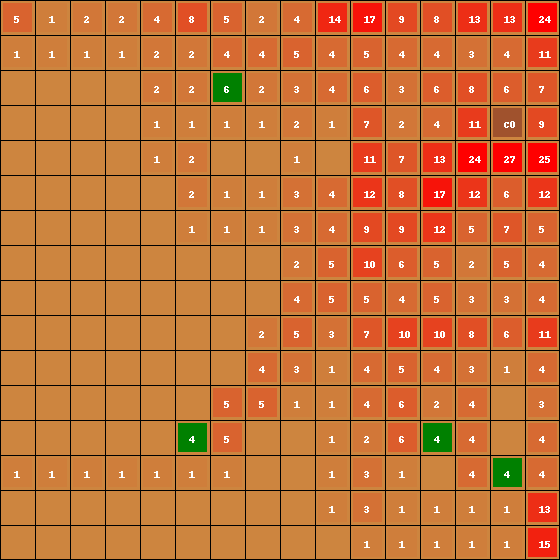
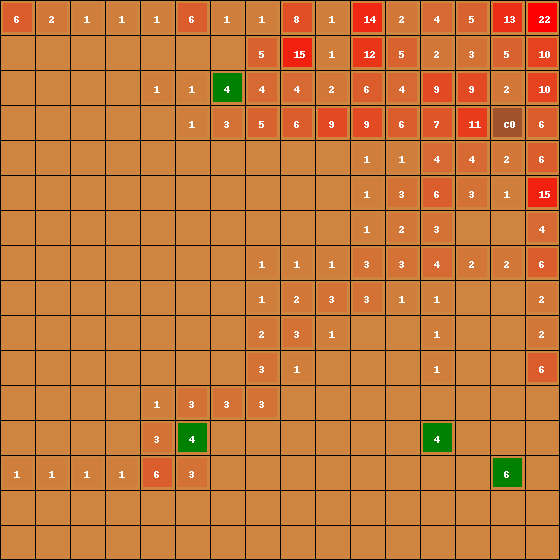
Changes to make line plots

diff --git a/Project/multi_agent_teams.py b/Project/multi_agent_teams.py
@@ -4,7 +4,7 @@ import numpy as np
 from gym import Env
 from typing import Sequence
 
-from aasma.utils import compare_results
+from aasma.utils import compare_results_teams, compare_results_storage
 from aasma.simplified_predator_prey import AntColonyEnv
 
 from aasma import AntAgent
@@ -14,12 +14,16 @@ from single_random_agent import RandomAntAgent
 
 SEED_MULTIPLIER = 1 # CHANGE THIS IF YOU WANT TO TEST A DIFFERENT SET OF MAPS!
 
-def run_multi_agent(environment: Env, n_episodes: int) -> np.ndarray:
-    
-    results = {"Random Team" : np.zeros(n_episodes), 
-               "Deliberative Team": np.zeros(n_episodes), 
-               "Reactive Team": np.zeros(n_episodes), 
-               "Hybrid Team": np.zeros(n_episodes)}
+def run_multi_agent(environment: Env, n_episodes: int, max_steps: int) -> np.ndarray:
+    results_colonies_storage = {"Random Team" : np.zeros(max_steps), 
+                                "Deliberative Team": np.zeros(max_steps), 
+                                "Reactive Team": np.zeros(max_steps), 
+                                "Hybrid Team": np.zeros(max_steps)}
+
+    results_teams = {"Random Team" : np.zeros(n_episodes), 
+                    "Deliberative Team": np.zeros(n_episodes), 
+                    "Reactive Team": np.zeros(n_episodes), 
+                    "Hybrid Team": np.zeros(n_episodes)}
     
     for episode in range(n_episodes):
         
@@ -73,34 +77,49 @@ def run_multi_agent(environment: Env, n_episodes: int) -> np.ndarray:
                 
                 next_observations, rewards, terminals, info = environment.step(actions)
 
+                results_colonies_storage[team][steps - 1] += info['colony_storage']
+
                 #environment.render() # ENABLE/DISABLE THIS TO VIEW ENVIRONMENT
                 #time.sleep(opt.render_sleep_time)
 
                 observations = next_observations
             
             environment.draw_heat_map(episode, team)
-            results[team][episode] = steps
-
             environment.close()
 
-    return results
+            results_teams[team][episode] = steps
+
+    for team in results_colonies_storage.keys():
+         for i in range(max_steps):
+            results_colonies_storage[team][i] /= n_episodes
+
+    results_final = [results_teams, results_colonies_storage]
+
+    return results_final
 
 if __name__ == '__main__':
 
     parser = argparse.ArgumentParser()
 
     parser.add_argument("--episodes", type=int, default=100) # CHANGE THIS (n_episodes)
+    parser.add_argument("--steps", type=int, default=100) # CHANGE THIS (max_steps)
     parser.add_argument("--render-sleep-time", type=float, default=0.1)
     opt = parser.parse_args()
 
     # 1 - Setup the environment
-    environment = AntColonyEnv(grid_shape=(16, 16), n_agents=4, max_steps=200, n_foodpiles=4, n_episodes=opt.episodes)
+    environment = AntColonyEnv(grid_shape=(16, 16), n_agents=4, max_steps=opt.steps, n_foodpiles=4, n_episodes=opt.episodes)
 
     # 3 - Evaluate teams
-    results = run_multi_agent(environment, opt.episodes)
+    results = run_multi_agent(environment, opt.episodes, opt.steps)
 
     # 4 - Compare results
-    compare_results(
+    compare_results_teams(
+        results,
+        title="Teams Comparison on 'Ant Colony' Environment",
+        colors=["orange", "green", "blue", "red"]
+    )
+
+    compare_results_storage(
         results,
         title="Teams Comparison on 'Ant Colony' Environment",
         colors=["orange", "green", "blue", "red"]

diff --git a/Project/aasma/utils.py b/Project/aasma/utils.py
@@ -113,8 +113,26 @@ def plot_confidence_bar(names, means, std_devs, N, title, x_label, y_label, conf
         plt.show()
     plt.close()
 
+def plot_line_graph(results, N, title, x_label, y_label, show=False, filename=None, colors=None, yscale=None):
+    for team, values in results[1].items():
+        plt.plot(N, values, label=team)
 
-def compare_results(results, confidence=0.95, title="Agents Comparison", metric="Steps Per Episode", colors=None):
+    plt.title(title)
+    plt.xlabel(x_label)
+    plt.ylabel(y_label)
+    plt.legend()
+
+    if yscale is not None:
+        plt.yscale(yscale)
+    plt.tight_layout()
+    if filename is not None:
+        plt.savefig(filename)
+    if show:
+        plt.show()
+    plt.close()
+
+
+def compare_results_teams(results, confidence=0.95, title="Agents Comparison", metric="Steps Per Episode", colors=None):
 
     """Displays a bar plot comparing the performance of different agents/teams.
 
@@ -134,10 +152,10 @@ def compare_results(results, confidence=0.95, title="Agents Comparison", metric=
 
         """
 
-    names = list(results.keys())
-    means = [result.mean() for result in results.values()]
-    stds = [result.std() for result in results.values()]
-    N = [result.size for result in results.values()]
+    names = list(results[0].keys())
+    means = [result.mean() for result in results[0].values()]
+    stds = [result.std() for result in results[0].values()]
+    N = [result.size for result in results[0].values()]
 
     plot_confidence_bar(
         names=names,
@@ -149,5 +167,14 @@ def compare_results(results, confidence=0.95, title="Agents Comparison", metric=
         confidence=confidence, show=True, colors=colors
     )
 
+def compare_results_storage(results, title="Agents Comparison", metric="Colony Storage per Step", colors=None):
+    N = np.arange(results[1]['Random Team'].size)
 
+    plot_line_graph(
+        results=results,
+        N=N,
+        title=title,
+        x_label="Steps", y_label=f"Avg. {metric}",
+        show=True, colors=colors
+    )
 

diff --git a/Project/aasma/simplified_predator_prey/ant_colony_env.py b/Project/aasma/simplified_predator_prey/ant_colony_env.py
@@ -264,7 +264,7 @@ class AntColonyEnv(gym.Env):
 
         # [agent_pos colony_pos 25*foodpiles 25*pheromones colony_capacity has_food]
 
-        return separated_full_information, rewards, self._agent_dones, {'foodpiles_done': self.foodpiles_done}
+        return separated_full_information, rewards, self._agent_dones, {'foodpiles_done': self.foodpiles_done, 'colony_storage': self.colonies_storage[0]}
 
     def format_outgoing_observations(self, features, observed_environment):
 

diff --git a/Project/single_deliberative_agent.py b/Project/single_deliberative_agent.py
@@ -7,7 +7,6 @@ from scipy.spatial.distance import cityblock
 from gym import Env
 
 from aasma.ant_agent import AntAgent
-from aasma.utils import compare_results
 from aasma.wrappers import SingleAgentWrapper
 from aasma.simplified_predator_prey import AntColonyEnv
 

diff --git a/Project/single_random_agent.py b/Project/single_random_agent.py
@@ -7,7 +7,6 @@ from scipy.spatial.distance import cityblock
 from gym import Env
 
 from aasma.ant_agent import AntAgent
-from aasma.utils import compare_results
 from aasma.wrappers import SingleAgentWrapper
 from aasma.simplified_predator_prey import AntColonyEnv
 

diff --git a/Project/single_reactive_agent.py b/Project/single_reactive_agent.py
@@ -7,7 +7,6 @@ from scipy.spatial.distance import cityblock
 from gym import Env
 
 from aasma.ant_agent import AntAgent
-from aasma.utils import compare_results
 from aasma.wrappers import SingleAgentWrapper
 from aasma.simplified_predator_prey import AntColonyEnv
 
